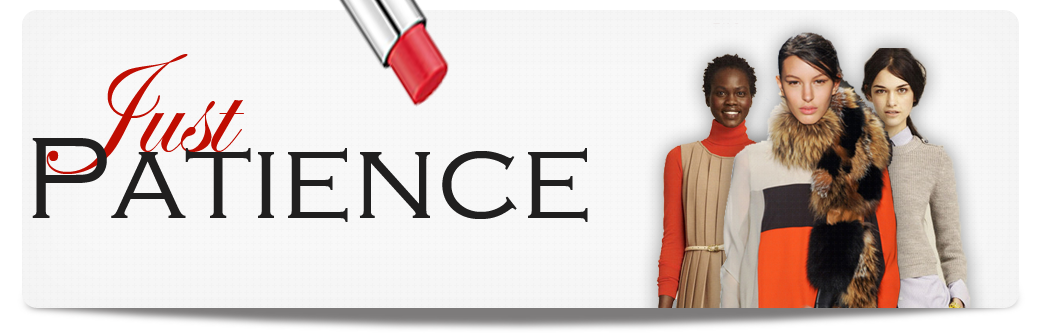
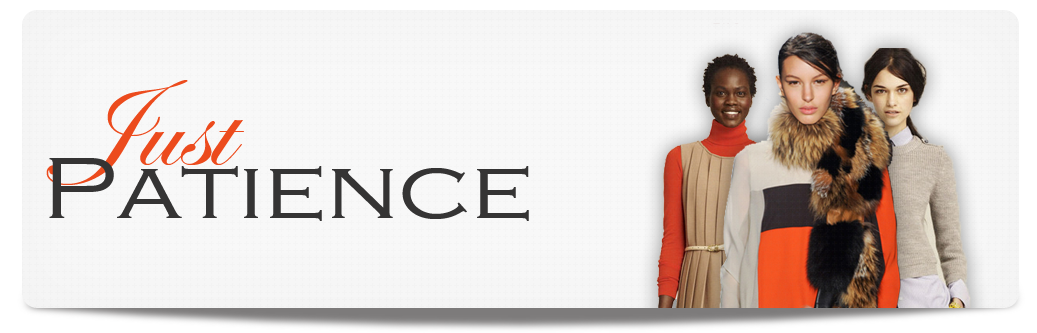
final after uploading to server

Changed region(s): [[0.0309, 0.1502, 0.5863, 0.6607], [0.3086, 0.0, 0.432, 0.3303]]

diff --git a/style.css b/style.css
@@ -124,7 +124,7 @@ h4 {
 	height:324px;
 	padding:0 0 10px 0;
 	margin:0px 0 0px 0;
-	background:url(images/header_bg10.png) no-repeat -20px 0px;
+	background:url(images/header_bg11.png) no-repeat -20px 0px;
 	position:relative;
 	/*border-bottom:2px #ddd dotted;*/
 	/*border-radius:12px;*/
@@ -238,7 +238,7 @@ h4 {
 	font-weight:bold;
 	text-decoration:none;
 	text-transform:capitalize;
-	color:#000;
+	color:#333;
 	display:inline-block;
 	background:;
 	/*border-bottom:2px #fff solid;*/
@@ -271,7 +271,7 @@ h4 {
 		-webkit-box-shadow: 0px 0px 7px #a2a3a0;
 		box-shadow: 0px 0px 7px #a2a3a0;*/
 	/*IE 7 AND 8 DO NOT SUPPORT BLUR PROPERTY OF SHADOWS*/
-	overflow:hidden;
+	overflow:;
 }
 
 #main_content {
@@ -327,39 +327,37 @@ h4 {
 }
 
 .entry h2 {
-	font-family:'copperplate gothic light';
-	font-size:20px;
+	font-family:'trebuchet MS';
+	font-size:18px;
 	line-height:22px;
 	font-weight:normal;
 	font-style:;
 	letter-spacing:1px;
-	padding:12px 18px;
-	margin:0 0 30px 0;
-	text-transform:capitalize;
-	color:#fff;
+	padding:0 18px 0px 18px;
+	margin:0 0 18px 0;
+	text-transform:uppercase;
+	color:#000;
 	text-align:center;
-	background:#222;
+	background:;
 	/*border-bottom:7px #444 solid;*/
-	position:absolute;
+	position:;
 	top:30px;
 	left:0px;
 	/*border-top:1px #ccc solid;
 		border-bottom:1px #ccc solid;*/
 }
 
+.entry h2 a {
+	color: #555;
+	text-decoration:none;
+}
+
 .entry-content a {
 	color: #E24634;
 }
 
-.entry h2 a {
-	text-decoration:none;
-	color:#fff;
-}
-
-
-
 .entry h3 {
-	font-family:'copperplate gothic light';
+	font-family:'trebuchet MS';
 	font-size:18px;
 	line-height:18px;
 	font-weight:normal;
@@ -375,7 +373,7 @@ h4 {
 }
 
 h3.comment {
-	font-family:'baskerville';
+	font-family:'trebuchet MS';
 	font-size:24px;
 	line-height:28px;
 	font-weight:normal;
@@ -396,7 +394,9 @@ h3.comment span {
 }
 
 .entry img {
-	margin:-30px auto 0 auto;
+	width:;
+	height:;
+	margin:0 auto 18px auto;
 	/*padding:10px;
 				background:#fff;*/
 			/*border:1px #ddd solid;*/
@@ -427,9 +427,9 @@ p {
 	font-family:georgia, serif;
 	font-size:12px;
 	font-style:;
-	line-height:18px;
+	line-height:15px;
 	color:#333;
-	margin:40px 0;
+	margin:9px 0 18px 0;
 }
 
 .entry-info {
@@ -473,8 +473,8 @@ p {
 .postdate {
 	width:50px;
 	position:absolute;
-	left:-95px;
-	top:-32px;
+	left:-105px;
+	top:0px;
 	padding:9px 6px 12px;
 	border-right:;
 	background:#fff;
@@ -485,6 +485,7 @@ p {
 	overflow:hidden;
 	display:;
 	opacity:;
+	z-index:;
 }
 
 .postdate img {
@@ -492,13 +493,13 @@ p {
 }
 
 .postdate span {
-	font-family:helvetica, arial, sans-serif;
-	font-size:36px;
-	padding:6px 0 6px 0;
+	font-family:'trebuchet MS';
+	font-size:30px;
+	padding:12px 0 6px 0;
 	margin:0 0 12px 0;
 	border-bottom:1px #ddd solid;
 	font-style:italic;
-	color:#222;
+	color:#555;
 	background:;
 }
 
@@ -506,7 +507,7 @@ p {
  	font-size:13px;
 	font-style:;
 	text-transform:uppercase;
-	color:#777;
+	color:#555;
 	margin:6px 0 0px 0;
 }
 
@@ -778,6 +779,10 @@ a.comment-reply-link {
 	margin:0 0 18px 0;
 }
 
+.entry-utility p, #like p {
+	margin:9px 0;
+}
+
 .entry-utility a {
 	font-style:italic;
 	color:#e24634;
@@ -820,7 +825,6 @@ h3.related_header a {
 	padding:;
 	margin:0px 0 18px 0;
 	background:;
-	border:;
 	overflow:hidden;
 }
 
@@ -1065,7 +1069,7 @@ color:#fff;
 	float:left;
 	width:360px;
 	padding:0 30px;
-	margin:-30px 0 0 0;
+	margin:0px 0 0 0;
 }
 
 #footer-comment-link {
@@ -1170,7 +1174,36 @@ color:#fff;
 #subscribe {
 	position:fixed;
 	top:300px;
-	left:0;
+	right:0;
+}
+
+#contact_form {
+	padding:60px 50px 50px;
+	border:1px #ddd solid;
+	background:#fff;
+}
+
+#contact_form p {
+	margin:0 0 12px 0;
+}
+
+#contact_form h3{
+	font-size:18px;
+	font-weight:bold;
+	text-transform:capitalize;
+	margin:0 0 18px 0;
+}
+
+#contact_form input, #contact_form textarea {
+	padding:6px 6px;
+	margin:6px 0 0 0;
+	border:1px #ddd solid;
+}
+
+#like {
+	padding:0 0 12px 0;
+	margin:0 0 12px 0;
+	border-bottom: 1px #555 dotted;
 }
 
 

diff --git a/js/site.js b/js/site.js
@@ -2,16 +2,18 @@ $(document).ready(function() {
 	
 	//top drop down menu
 	
-	$('.drop-down').hide();
+	// $('.drop-down').hide();
+	// 	
+	// 	$('#top_nav ul > li').hover(function(e) {
+	// 	
+	// 		$(this).find('.drop-down').slideDown('fast');
+	// 	},	
+	// 	function(e) {
+	// 		$(this).find('.drop-down').hide('slow');
+	// 		    
+	// 	});	
 	
-	$('#top_nav ul > li').hover(function(e) {
-	
-		$(this).find('.drop-down').slideDown('fast');
-	},	
-	function(e) {
-		$(this).find('.drop-down').hide('slow');
-		    
-	});	
+	// footer bar
 	
 	
 	$('#footer').hide();

diff --git a/header.php b/header.php
@@ -57,28 +57,28 @@
 	}(document, 'script', 'facebook-jssdk'));</script>
 	
 
-	<div id="top_nav" class="cleafix">
-		
-		<ul class="clearfix">
-			<li><a href="#" title="">subscribe</a></li>
-			<li><a href="#" title="">categories</a>
-				<div class="drop-down">
-				<?php $categories = get_categories( $args );?> 
-				
-				<?php foreach($categories as $category) {
-					?>
-						
-					<p>
-					<?php echo $category->name; ?>
-					</p>
-				
-				<?php }
-				?></div></li>
-			<li><a href="#" title="">popular posts</a></li>
-			<li><a href="#" title="">shopping</a></li>
-		</ul>
+	<!-- <div id="top_nav" class="cleafix">
+			
+			<ul class="clearfix">
+				<li><a href="#" title="">subscribe</a></li>
+				<li><a href="#" title="">categories</a>
+					<div class="drop-down">
+					<?php $categories = get_categories( $args );?> 
+					
+					<?php foreach($categories as $category) {
+						?>
+							
+						<p>
+						<?php echo $category->name; ?>
+						</p>
+					
+					<?php }
+					?></div></li>
+				<li><a href="#" title="">popular posts</a></li>
+				<li><a href="#" title="">shopping</a></li>
+			</ul>
 
-	</div><!--top_nav-->
+		</div> --><!--top_nav-->
 
 <div id="wrapper">
 			

diff --git a/contact.php b/contact.php
@@ -14,9 +14,22 @@ Template Name: contact
 			
 		<div class="padding_30">
 			
-		<h2>contact me</h2>
 		
-		<p>Lorem ipsum dolor sit amet, consectetur adipisicing elit, sed do eiusmod tempor incididunt ut labore et dolore magna aliqua. Ut enim ad minim veniam, quis nostrud exercitation ullamco laboris nisi ut aliquip ex ea commodo consequat. Duis aute irure dolor in reprehenderit in voluptate velit esse cillum dolore eu fugiat nulla pariatur. Excepteur sint occaecat cupidatat non proident, sunt in culpa qui officia deserunt mollit anim id est laborum.</p>
+		
+		<div id="contact_form">
+			
+		<h3>contact me</h3>
+		
+		<?php if ( have_posts() ) : while ( have_posts() ) : the_post(); ?>
+		
+		<?php the_content(); ?>
+
+		<?php endwhile;?>
+
+		<?php endif; ?>
+		
+		</div><!--contact_form-->
+		
 			
 		</div><!--padding_30-->		
 			

diff --git a/footer.php b/footer.php
@@ -6,7 +6,7 @@
 	</ul>
 </div> --><!--footer_menu-->
 
-	<?php if ( is_home() || is_front_page() ) { ?>
+	<?php if ( is_home() || is_front_page() || is_page() ) { ?>
 	
 	<div id="footer-categories">
 		
